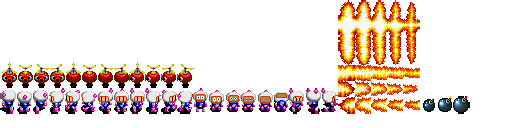
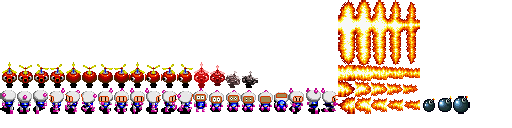
Add Enemy-Octopus dying animation, and Player dying animation

Changed region(s): [[0.375, 0.5, 0.5, 0.6875]]

diff --git a/core/src/com/ychstudio/builders/ActorBuilder.java b/core/src/com/ychstudio/builders/ActorBuilder.java
@@ -29,19 +29,20 @@ import com.ychstudio.gamesys.GameManager;
 import java.util.HashMap;
 
 public class ActorBuilder {
+
     protected final float radius = 0.46f;
 
     private final World b2dWorld;
     private final com.artemis.World world;
 
     private final AssetManager assetManager;
-    
+
     public ActorBuilder(World b2dWorld, com.artemis.World world) {
         this.b2dWorld = b2dWorld;
         this.world = world;
         this.assetManager = GameManager.getInstance().getAssetManager();
     }
-    
+
     public void createWall(float x, float y, float mapWidth, float mapHeight, TextureAtlas tileTextureAtlas) {
         BodyDef bodyDef = new BodyDef();
         bodyDef.type = BodyDef.BodyType.StaticBody;
@@ -181,7 +182,7 @@ public class ActorBuilder {
         body.setUserData(e);
     }
 
-    public void createEnemy(float x, float y) {
+    public void createOctopus(float x, float y) {
         // box2d
         BodyDef bodyDef = new BodyDef();
         bodyDef.type = BodyDef.BodyType.DynamicBody;
@@ -238,6 +239,15 @@ public class ActorBuilder {
         }
         anim = new Animation(0.1f, keyFrames, Animation.PlayMode.LOOP);
         anims.put("walking_right", anim);
+
+        keyFrames.clear();
+        // dying
+        for (int i = 12; i < 16; i++) {
+            TextureRegion textureRegionRight = new TextureRegion(textureRegion, i * 16, 0, 16, 24);
+            keyFrames.add(textureRegionRight);
+        }
+        anim = new Animation(0.1f, keyFrames, Animation.PlayMode.NORMAL);
+        anims.put("dying", anim);
 
         Renderer renderer = new Renderer(new TextureRegion(textureRegion, 0, 0, 16, 24), 16 / GameManager.PPM, 24 / GameManager.PPM);
         renderer.setOrigin(16 / GameManager.PPM / 2, 16 / GameManager.PPM / 2);
@@ -336,6 +346,14 @@ public class ActorBuilder {
         keyFrames.add(new TextureRegion(textureRegion, 9 * 16, 0, 16, 24));
         anim = new Animation(0.1f, keyFrames, Animation.PlayMode.NORMAL);
         anims.put("idling_right", anim);
+
+        // dying
+        keyFrames.clear();
+        for (int i = 12; i < 18; i++) {
+            keyFrames.add(new TextureRegion(textureRegion, i * 16, 0, 16, 24));
+        }
+        anim = new Animation(0.1f, keyFrames, Animation.PlayMode.NORMAL);
+        anims.put("dying", anim);
 
         Renderer renderer = new Renderer(new TextureRegion(textureRegion, 0, 0, 16, 24), 16 / GameManager.PPM, 24 / GameManager.PPM);
         renderer.setOrigin(16 / GameManager.PPM / 2, 16 / GameManager.PPM / 2);

diff --git a/core/src/com/ychstudio/systems/EnemySystem.java b/core/src/com/ychstudio/systems/EnemySystem.java
@@ -94,7 +94,7 @@ public class EnemySystem extends IteratingSystem {
         State state = mState.get(entityId);
 
         Body body = rigidBody.body;
-
+        
         switch (enemy.getCurrentState()) {
             case ATTACKING_LEFT:
                 state.setCurrentState("attacking_left");
@@ -110,6 +110,11 @@ public class EnemySystem extends IteratingSystem {
                 break;
             case DYING:
                 state.setCurrentState("dying");
+                body.getWorld().destroyBody(body);
+                mRigidBody.set(entityId, false);
+                mEnemy.set(entityId, false);
+                
+                // TODO: chance to create power-up item
                 break;
             case WALKING_LEFT:
                 state.setCurrentState("walking_left");

diff --git a/core/src/com/ychstudio/systems/PlayerSystem.java b/core/src/com/ychstudio/systems/PlayerSystem.java
@@ -106,8 +106,14 @@ public class PlayerSystem extends IteratingSystem {
             }
 
         }
-
+        
         switch (player.state) {
+            case DYING:
+                state.setCurrentState("dying");
+                // TODO: remove RigidBody, Player
+                
+                // TODO: re-spawn player
+                break;
             case WALKING_UP:
                 state.setCurrentState("walking_up");
                 break;

diff --git a/core/src/com/ychstudio/builders/MapLoader.java b/core/src/com/ychstudio/builders/MapLoader.java
@@ -77,7 +77,7 @@ public class MapLoader {
                 } else if (BLOCK.PLAYER.sameColor(color)) {
                     actorBuilder.createPlayer(x + 0.5f, y + 0.5f);
                 } else if (BLOCK.ENEMY1.sameColor(color)) {
-                    actorBuilder.createEnemy(x + 0.5f, y + 0.5f);
+                    actorBuilder.createOctopus(x + 0.5f, y + 0.5f);
                 }
             }
         }

diff --git a/core/src/com/ychstudio/components/Player.java b/core/src/com/ychstudio/components/Player.java
@@ -12,6 +12,7 @@ public class Player extends Component {
         WALKING_LEFT,
         WALKING_DOWN,
         WALKING_RIGHT,
+        DYING
     }
     
     public State state;
